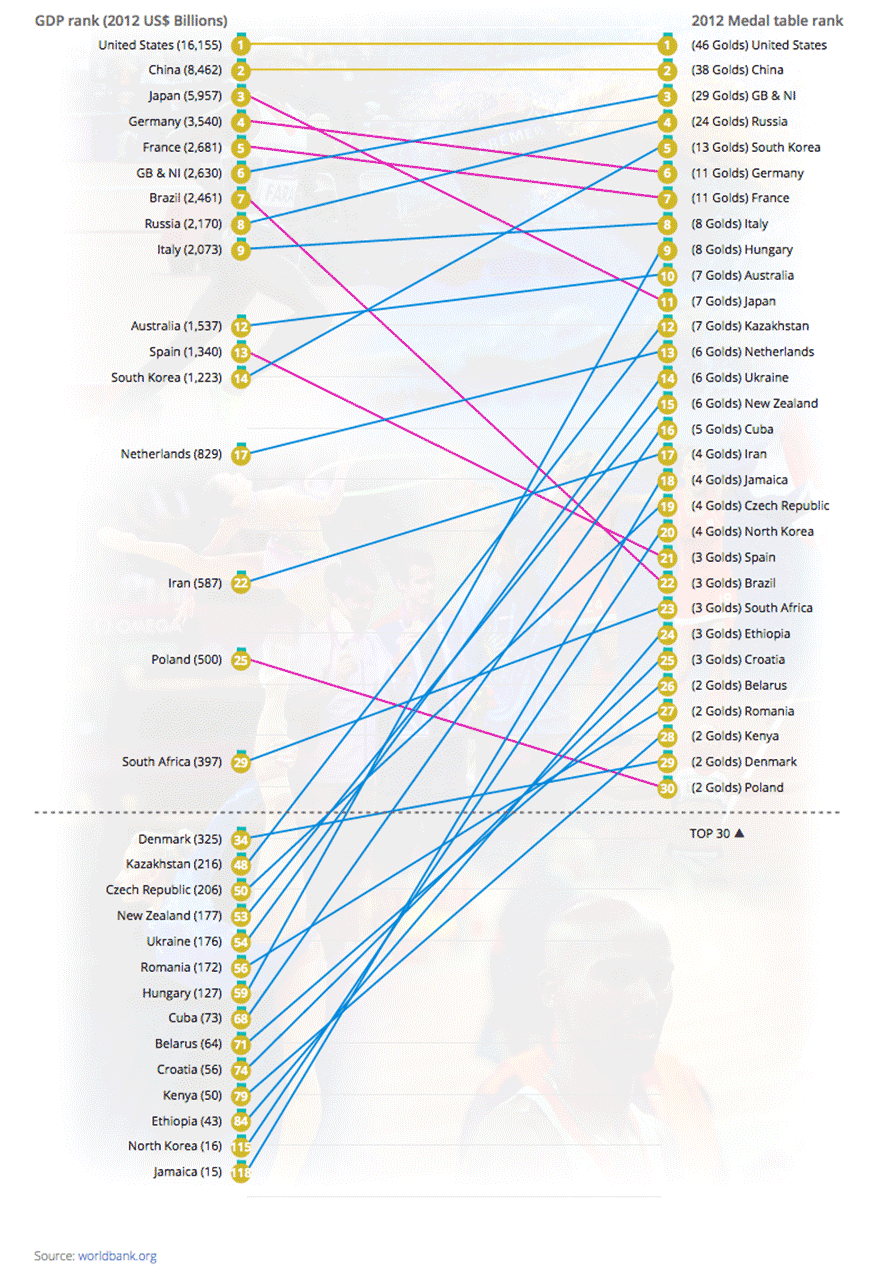
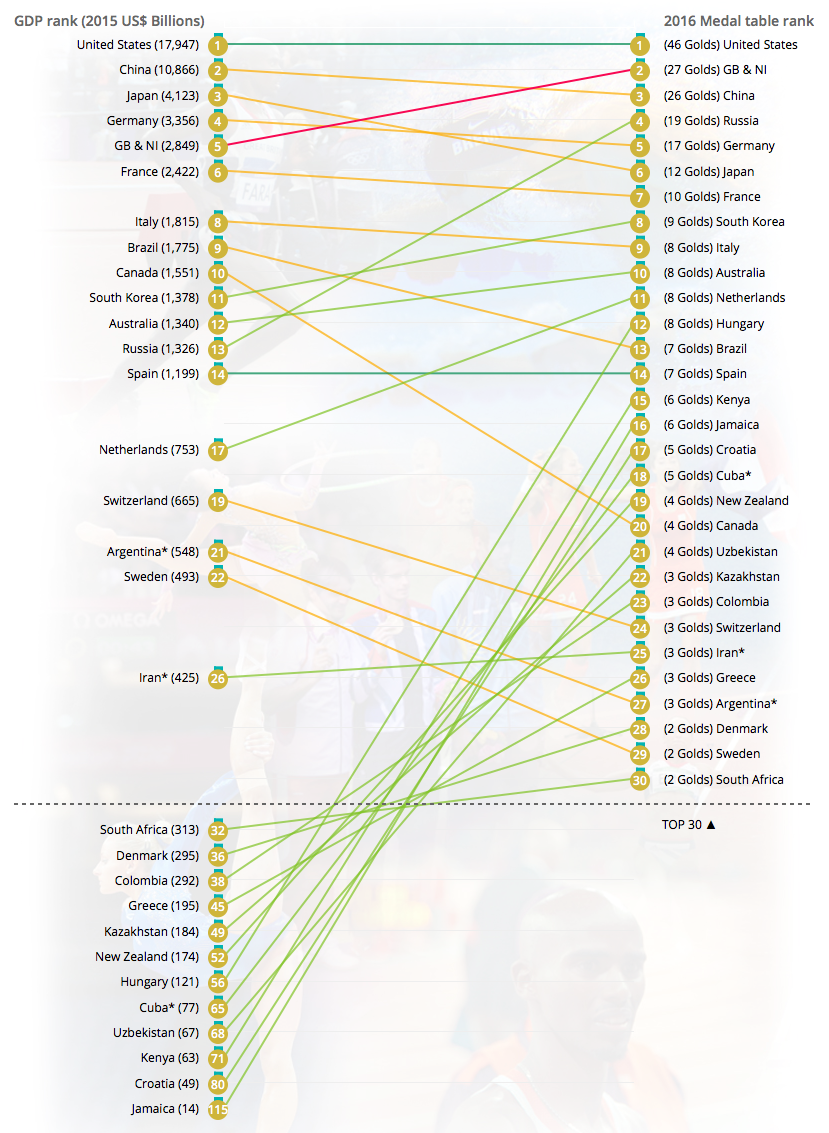
Update 22nd Aug

Changed region(s): [[0.0302, 0.0, 0.965, 1.0], [0.4222, 0.4016, 0.5127, 0.4325]]

diff --git a/dvc356/scriptb.js b/dvc356/scriptb.js
@@ -317,12 +317,20 @@
 										.text(function(d, i) {
 											return "(" + format1(dvc.essential.dataper[1][i]) + " Golds) " + dvc.essential.legendLabels[i];
 										})
-										.attr('y', function(d) {
-											return (y(d.value[1].alt) +5);
-
+										.attr('y', function(d,i) {
+											//where 2 countries share a ranking (order is in GDP rank)	
+											if(dvc.essential.legendLabels[i] == "Thailand"){
+												return (y(d.value[1].alt) +13);
+											} else if(dvc.essential.legendLabels[i] == "Belgium"){
+												return (y(d.value[1].alt) );	
+											//single country	
+											} else {
+												return (y(d.value[1].alt) +5);
+											}
 										})
 										.attr('x', chart_width +30)
 										.attr('text-anchor','start');
+
 							   
 							   
 									linegroups.append('text')

diff --git a/dvc356/index.html b/dvc356/index.html
@@ -22,17 +22,17 @@
 	
 
 		.slopeEU0 {
-			stroke: #0D89D6;	
+			stroke: #80C325;	
 			stroke-width:2px;	
 		}
 		
 		.slopeEU1 {
-			stroke: #D91EA7;
+			stroke: #FEAD00;
 			stroke-width:2px;	
 		}
 		
 		.slopeEU2 {
-			stroke: #DEBB3C;	
+			stroke: #008A52;	
 			stroke-width:2px;	
 		}
 		
@@ -41,7 +41,15 @@
 			stroke: none;
 			shape-rendering: crispEdges;
 		}
-
+	.line{
+		opacity: 0.7;
+	}
+		
+		.line-4{
+			stroke: #F80853;	
+			opacity: 1;
+		}
+		
 
 		.border0 { border-top: 2px solid #274796; }
         .border1 { border-top: 2px solid #F5942F; }

diff --git a/dvc354/Rio/index.html b/dvc354/Rio/index.html
@@ -41,7 +41,15 @@
 			stroke: none;
 			shape-rendering: crispEdges;
 		}
-
+	.line{
+		opacity: 0.7;
+	}
+		
+		.line-4{
+			stroke: #F80853;	
+			opacity: 1;
+		}
+		
 
 		.border0 { border-top: 2px solid #274796; }
         .border1 { border-top: 2px solid #F5942F; }
